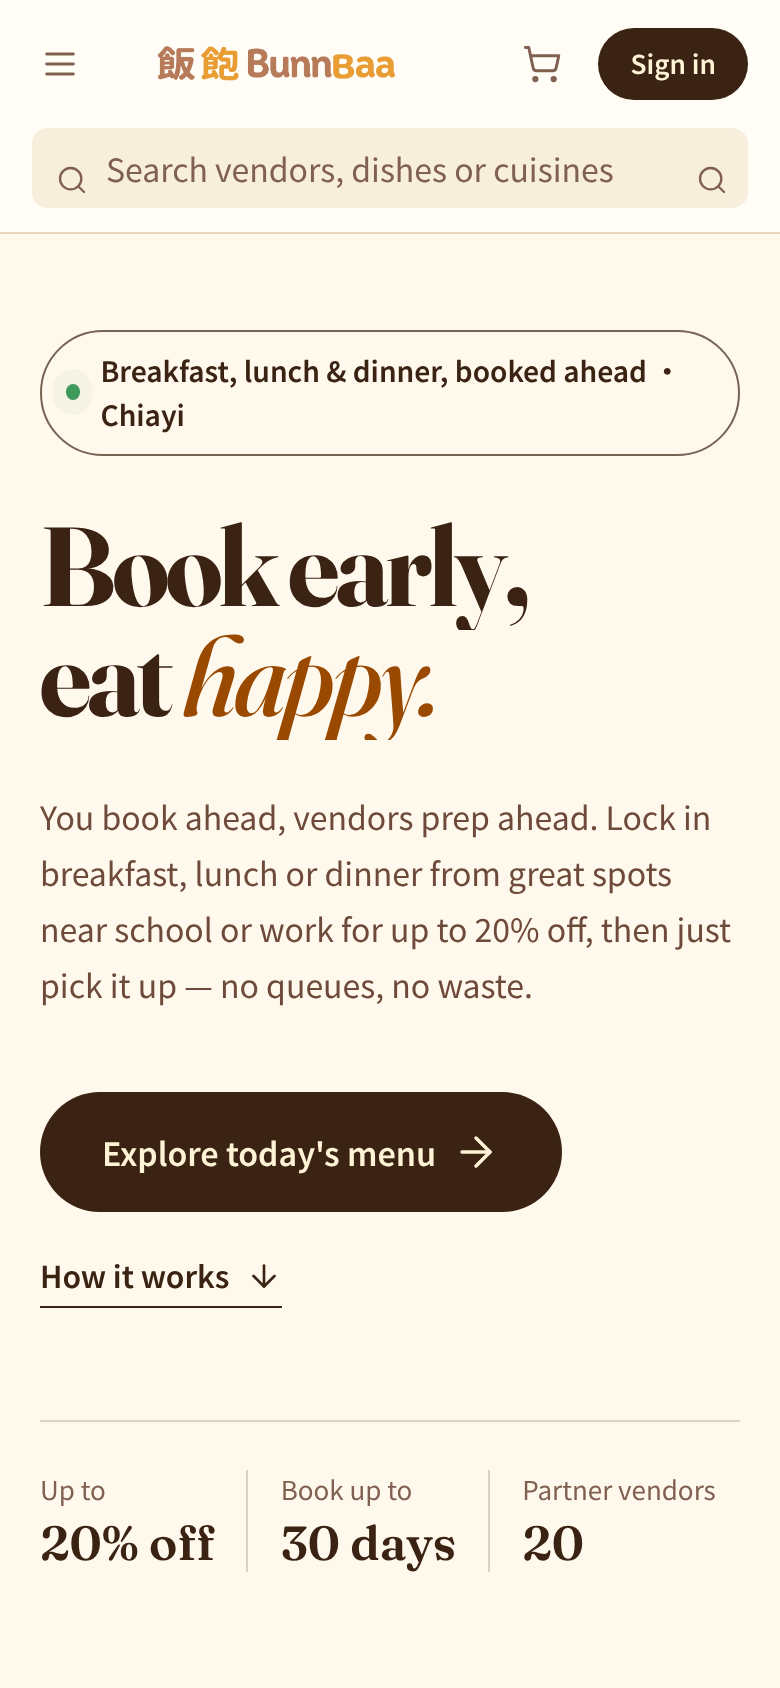
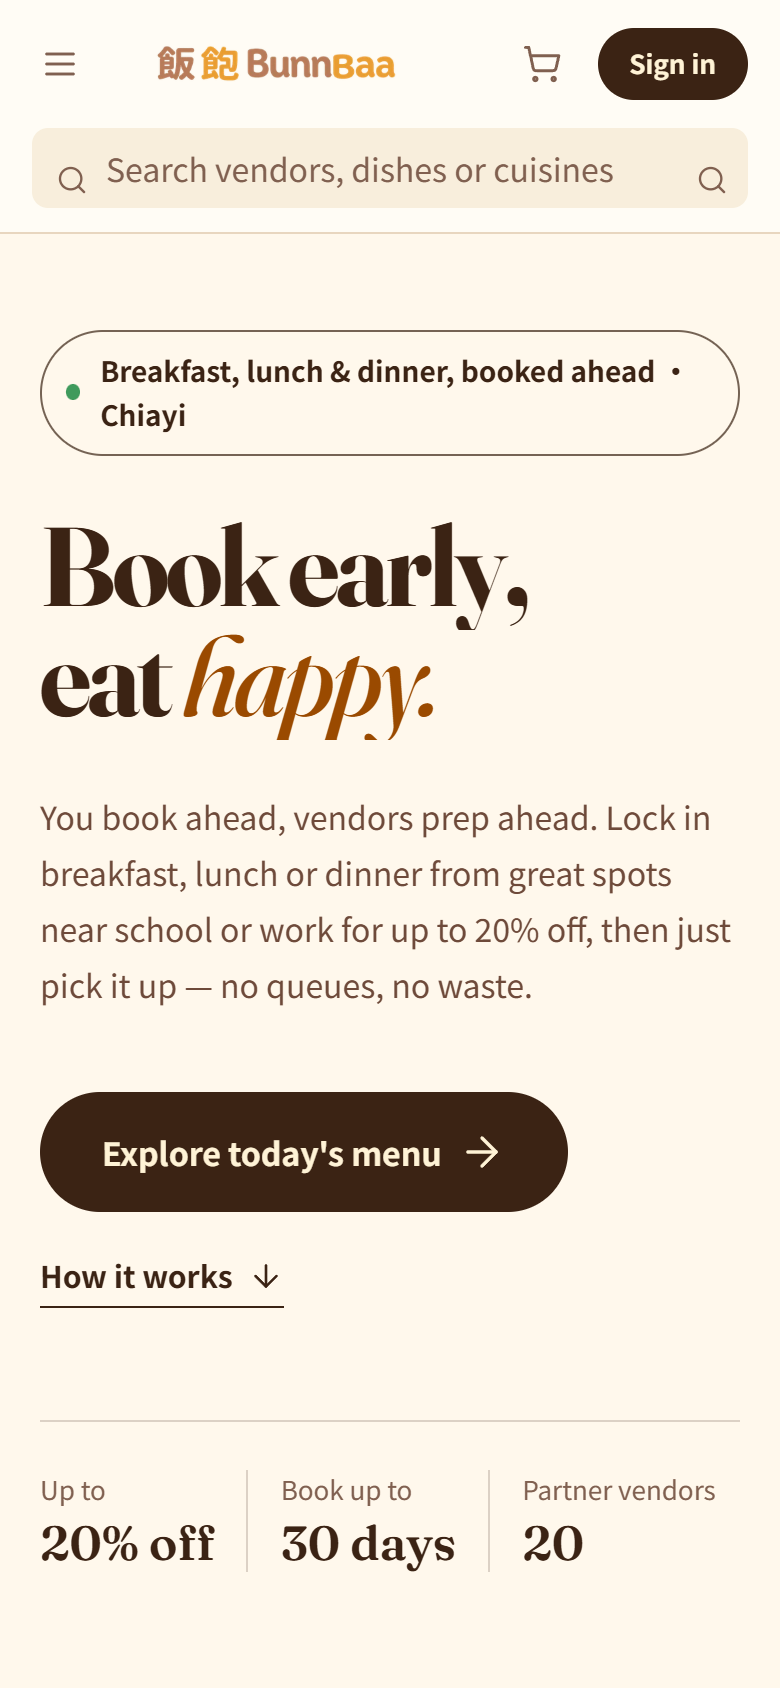
Retake README screenshots on the live prototype in English

diff --git a/README.md b/README.md
@@ -37,12 +37,12 @@ Payments run in the LINE Pay **sandbox**, so no real money moves.
 
 ## Screenshots
 
-Diner app (mobile) and vendor portal, English UI. Taken on the local emulators with seeded demo data, so vendor and dish names are not translated yet; on production they are translated by Gemini.
+Diner app (mobile) and vendor portal, taken on the live prototype in English. Vendor and dish names are translated from Chinese by Gemini.
 
 <p>
   <img src="assets/screenshots/diner-home.png" alt="Diner home" width="190">
   <img src="assets/screenshots/diner-today.png" alt="Pre-order with early-bird prices" width="190">
-  <img src="assets/screenshots/diner-resale-market.png" alt="Resale market" width="190">
+  <img src="assets/screenshots/diner-my-meals.png" alt="A locked meal: show the pickup code, transfer or gift it" width="190">
 </p>
 <p><img src="assets/screenshots/vendor-dashboard.png" alt="Vendor portal overview" width="780"></p>
 

diff --git a/README.zh-TW.md b/README.zh-TW.md
@@ -37,12 +37,12 @@
 
 ## 畫面
 
-消費者端（手機）與商家後台，英文介面。在本機 emulator 用示範資料截的，所以店名、菜名還沒翻譯；正式站上由 Gemini 自動翻成英文。
+消費者端（手機）與商家後台，在正式站以英文介面截圖。店名、菜名由 Gemini 從中文翻成英文。
 
 <p>
   <img src="assets/screenshots/diner-home.png" alt="Diner home" width="190">
   <img src="assets/screenshots/diner-today.png" alt="Pre-order with early-bird prices" width="190">
-  <img src="assets/screenshots/diner-resale-market.png" alt="Resale market" width="190">
+  <img src="assets/screenshots/diner-my-meals.png" alt="A locked meal: show the pickup code, transfer or gift it" width="190">
 </p>
 <p><img src="assets/screenshots/vendor-dashboard.png" alt="Vendor portal overview" width="780"></p>
 
